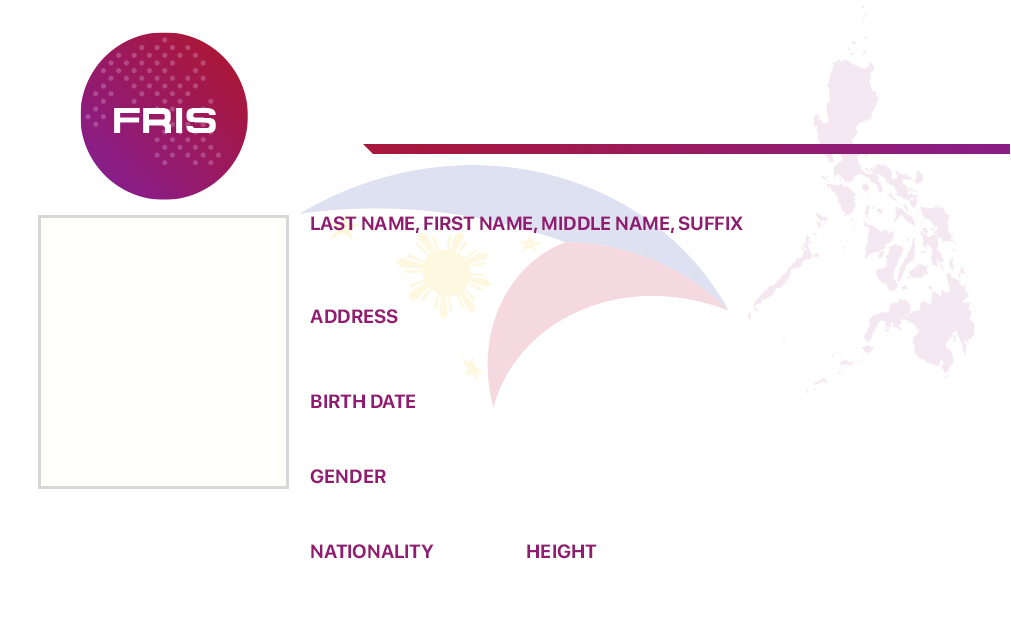
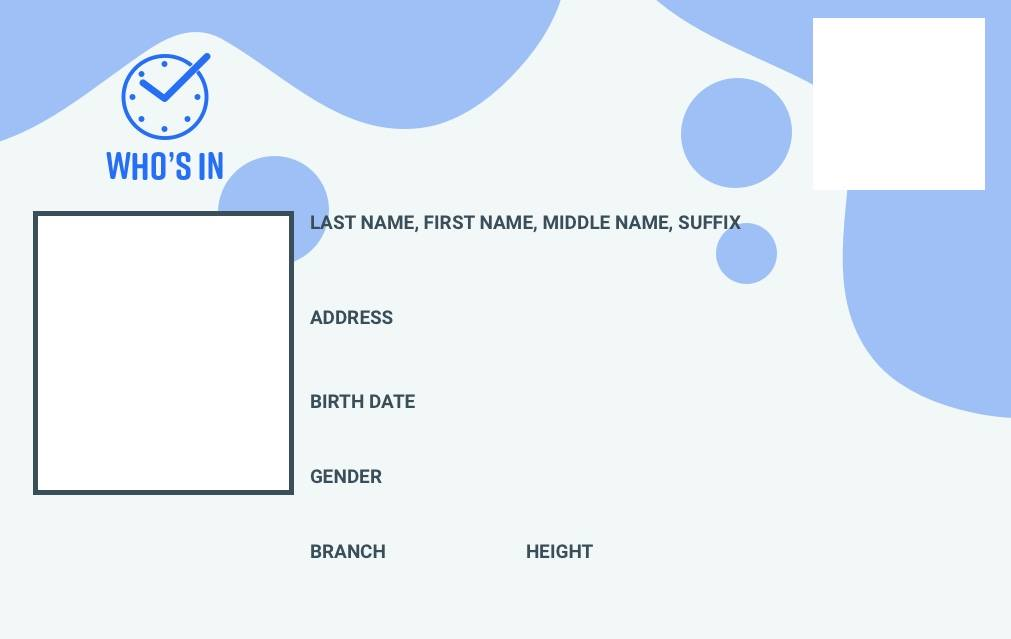
finalized id print install some package needed for pdf

diff --git a/service/app/Modules/Service/Services/Pdf/UserProfileIDPdf.php b/service/app/Modules/Service/Services/Pdf/UserProfileIDPdf.php
@@ -4,6 +4,7 @@ namespace App\Modules\Service\Services\Pdf;
 
 use Carbon\Carbon;
 use Anouar\Fpdf\Fpdf;
+use Intervention\Image\Facades\Image;
 use SimpleSoftwareIO\QrCode\Facades\QrCode;
 
 class UserProfileIDPdf extends Fpdf
@@ -29,63 +30,69 @@ class UserProfileIDPdf extends Fpdf
         exit;
     }
 
-    public function upload($srn, $payment = [], $idNumber = 111111)
-    {
-        $this->AddPage('L', [85.598, 53.975]);
-        $this->SetAutoPageBreak(false);
-        $this->setFrontContent(self::buildData($srn, $payment, $idNumber));
-        $this->AddPage('L', [85.598, 53.975]);
-        $this->setBackContent();
-        $fileName = md5(Carbon::now().rand(1, 9999)).'.pdf';
-        $this->Output(storage_path('generated/'.$fileName));
-
-        return $fileName;
-    }
+//    public function upload($srn, $payment = [], $idNumber = 111111)
+//    {
+//        $this->AddPage('L', [85.598, 53.975]);
+//        $this->SetAutoPageBreak(false);
+//        $this->setFrontContent(self::buildData($srn, $payment, $idNumber));
+//        $this->AddPage('L', [85.598, 53.975]);
+//        $this->setBackContent();
+//        $fileName = md5(Carbon::now().rand(1, 9999)).'.pdf';
+//        $this->Output(storage_path('generated/'.$fileName));
+//
+//        return $fileName;
+//    }
 
     private function setFrontContent($data)
     {
         $this->Image(resource_path('pdf/template/Front.jpg'), 0, 0, 210, 132.418);
 
-//        $qrCode = QrCode::format('png')->size(200)->margin(1)->generate($data['id_number']);
-//        $image = \Image::make($qrCode)->encode('data-url');
-//        $this->Image($image->encoded, 27 + 12, 42, 9, 9, 'png');
+        $qrCode = QrCode::format('png')
+            ->size(200)
+            ->margin(0)
+            ->generate($data['uuid']);
+        $image = Image::make($qrCode)->encode('data-url');
+
+        $this->Image($image->encoded, 169, 3.8, 35.6, 35.6, 'png');
+
 
         if ($data['photo']) {
-            $photo = $data['photo'].'?token='.request()->bearerToken();
-            $this->Image($photo, 8, 45, 52, 56, 'JPG');
+            $photo = $data['photo'];
+            $this->Image($photo, 8, 45, 52, 56.6, 'JPG');
         }
+
         $this->setXY(63, 54);
-        $this->SetFont('Arial', 'B', 22);
+        $this->SetFont('Arial', 'B', 18);
         $this->SetTextColor(0, 0, 0);
         $this->Cell(55, 4, "{$data->last_name}, {$data->first_name} {$data->middle_name}", self::$border, 0, 'L');
 
         $this->setXY(63, 69);
         $this->SetFont('Arial', 'B', 14);
-        $this->MultiCell(0, 5, $data->permanent_address);
+        $this->MultiCell(0, 5, $data->full_address);
 
 
         $this->setXY(63, 89);
-        $this->SetFont('Arial', 'B', 22);
+        $this->SetFont('Arial', 'B', 18);
         $this->SetTextColor(0, 0, 0);
-        $this->Cell(55, 4, strtoupper(self::parseDate($data->dob)), self::$border, 0, 'L');
+        $this->Cell(55, 4, strtoupper(self::parseDate($data->birth_date)), self::$border, 0, 'L');
 
         $this->setXY(63, 105);
-        $this->SetFont('Arial', 'B', 22);
+        $this->SetFont('Arial', 'B', 18);
         $this->SetTextColor(0, 0, 0);
-        $this->Cell(55, 4, strtoupper($data->sex), self::$border, 0, 'L');
+        $this->Cell(55, 4, strtoupper($data->gender), self::$border, 0, 'L');
 
         $this->setXY(63, 120);
-        $this->SetFont('Arial', 'B', 22);
+        $this->SetFont('Arial', 'B', 18);
         $this->SetTextColor(0, 0, 0);
-        $this->Cell(55, 4, $data->citisenship, self::$border, 0, 'L');
+        $this->Cell(55, 4, $data->branch->name, self::$border, 0, 'L');
 
         $this->setXY(108, 120);
-        $this->SetFont('Arial', 'B', 22);
+        $this->SetFont('Arial', 'B', 18);
         $this->SetTextColor(0, 0, 0);
-        $this->Cell(55, 4, $data->height_in_feet, self::$border, 0, 'L');
+        $this->Cell(55, 4, $data->mobile_number, self::$border, 0, 'L');
 
     }
-
+//
     private function setBackContent()
     {
         $this->Image(resource_path('pdf/template/Back.jpg'), 0, 0, 210, 132.418);

diff --git a/service/app/Modules/Member/Models/Member.php b/service/app/Modules/Member/Models/Member.php
@@ -99,6 +99,23 @@ class Member extends Model implements AuditableContract
     }
 
     /**
+     * Mutator for Full Address
+     *
+     * @return string
+     */
+    public function getFullAddressAttribute()
+    {
+        $var = array();
+        isset($this->region()->first()->name) ? $var[] = $this->region()->first()->name : null;
+        isset($this->province()->first()->name) ? $var[] = $this->province()->first()->name : null;
+        isset($this->municipality()->first()->name) ? $var[] = $this->municipality()->first()->name : null;
+        isset($this->barangay()->first()->name) ? $var[] = $this->barangay()->first()->name : null;
+        isset($this->attributes['street']) ? $var[] = $this->attributes['street'] : null;
+        isset($this->attributes['zip_code']) ? $var[] = $this->attributes['zip_code'] : null;
+        return implode(', ', $var);
+    }
+
+    /**
      * Accessor for fullname
      *
      * @return string

diff --git a/service/app/Modules/Service/Http/Controllers/Mng/Brc/BranchMemberIDPrinter.php b/service/app/Modules/Service/Http/Controllers/Mng/Brc/BranchMemberIDPrinter.php
@@ -12,13 +12,13 @@ class BranchMemberIDPrinter
 {
     public function printProfile(Request $request)
     {
-        return (new SmsSender)->send(
-            [
-                'message' => "hi",
-                'number' => '09174228854',
-            ]
-        );
-//        $profile = MemberRepository::findUuid($request->uuid)->firstOrFail();
-//        return (new UserProfileIDPdf())->generate($profile);
+//        return (new SmsSender)->send(
+//            [
+//                'message' => "hi",
+//                'number' => '09174228854',
+//            ]
+//        );
+        $profile = MemberRepository::findUuid($request->uuid)->firstOrFail();
+        return (new UserProfileIDPdf())->generate($profile);
     }
 }

diff --git a/service/config/app.php b/service/config/app.php
@@ -163,7 +163,8 @@ return [
         App\Providers\RouteServiceProvider::class,
         Damnyan\Cmn\CmnServiceProvider::class,
         Barryvdh\Cors\ServiceProvider::class,
-
+        Intervention\Image\ImageServiceProvider::class,
+        SimpleSoftwareIO\QrCode\QrCodeServiceProvider::class
     ],
 
     /*
@@ -213,6 +214,8 @@ return [
         'Validator' => Illuminate\Support\Facades\Validator::class,
         'View' => Illuminate\Support\Facades\View::class,
         'Fpdf'    => Anouar\Fpdf\Facades\Fpdf::class,
+        'Image' => Intervention\Image\Facades\Image::class,
+        'QrCode' => SimpleSoftwareIO\QrCode\Facades\QrCode::class
     ],
 
 ];

diff --git a/service/app/Modules/Service/Routes/mng/brc/pdf/member/{uuid}/index.php b/service/app/Modules/Service/Routes/mng/brc/pdf/member/{uuid}/index.php
@@ -1,3 +1,3 @@
 <?php
 
-Route::get('/', 'Mng\Brc\BranchMemberIDPrinter@printProfile');
+Route::get('/print_id', 'Mng\Brc\BranchMemberIDPrinter@printProfile');
